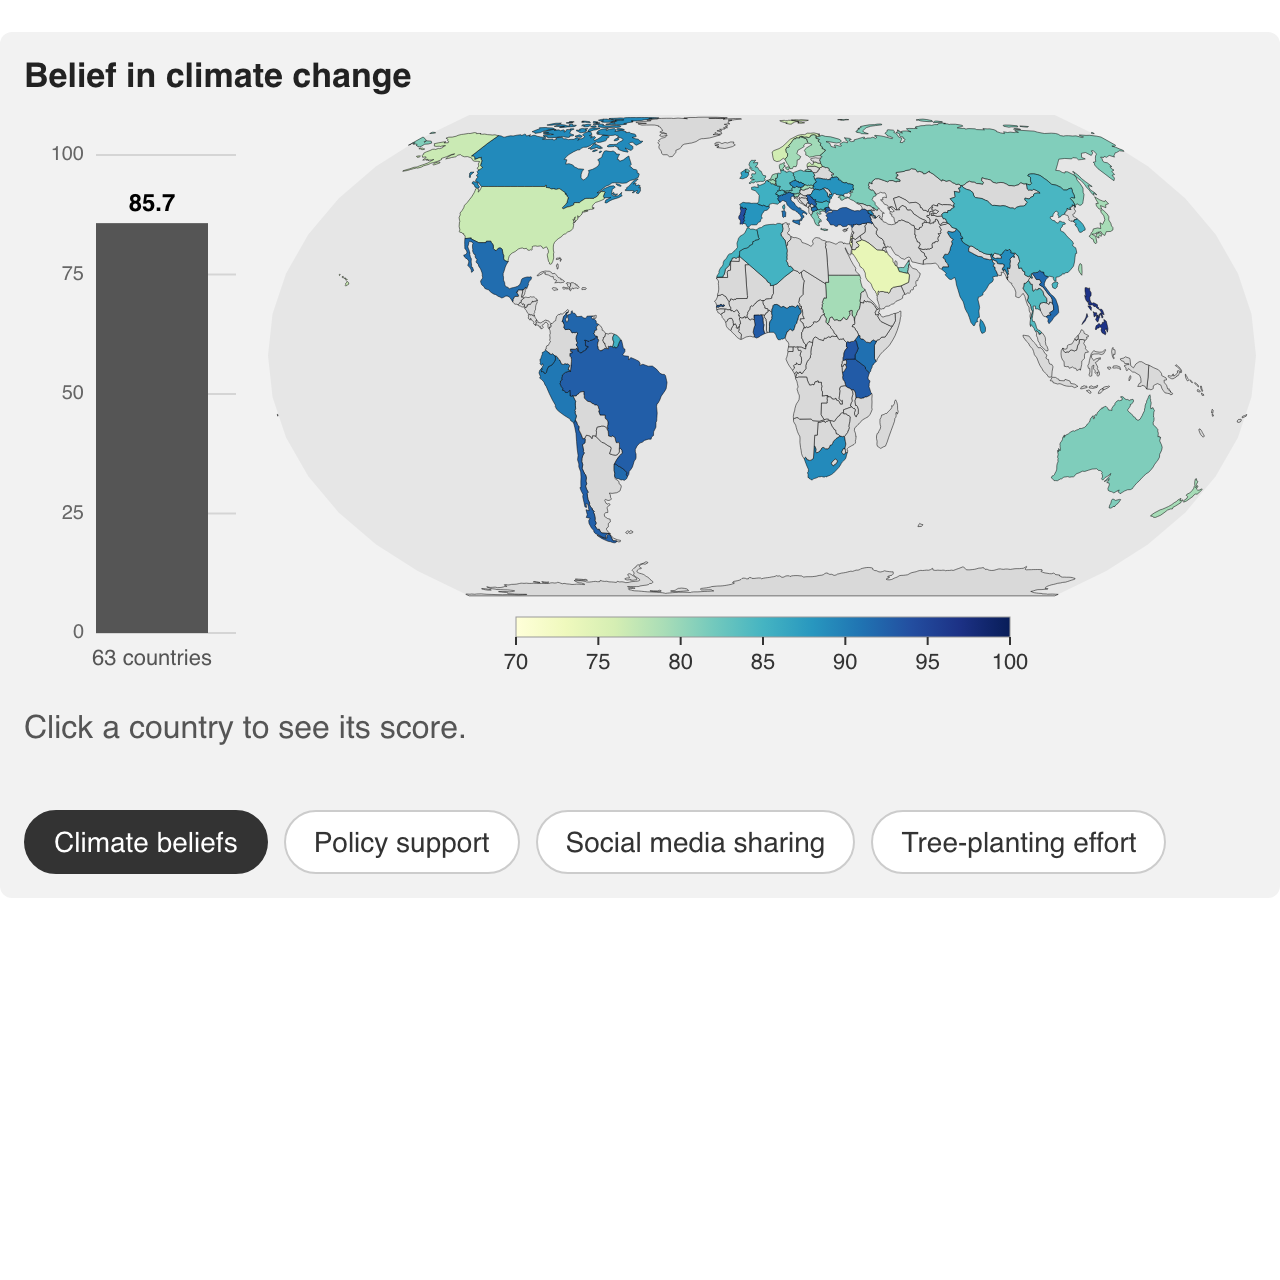
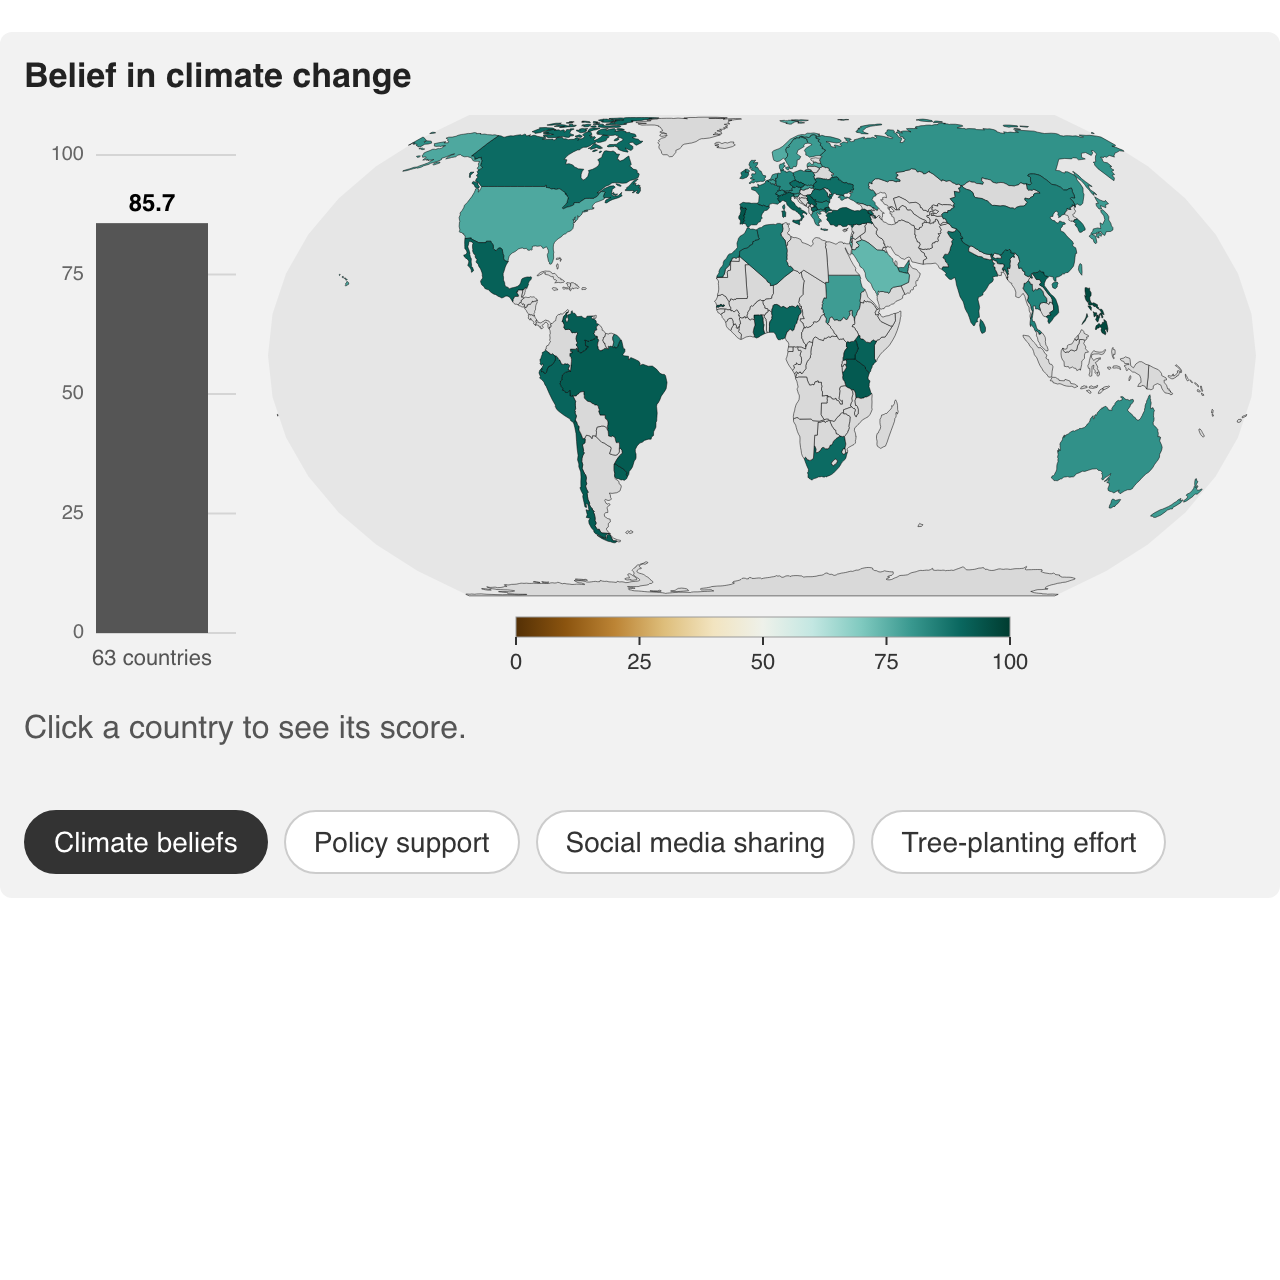
Refresh the thumbnails and correct the colour-scale prose
The BrBG commit changed only widget.js, which left two things behind it
stale. The vlasceanu thumbnail still showed the YlGnBu ramp and its
70-100 colorbar, and the page still told readers that every scale is
trimmed to its outcome's range and that the four maps cannot be compared
— true of the scale it replaced, but not of this one, where belief,
policy and sharing share a fixed 0-100 diverging scale and only
tree-planting effort has its own.

Also captures the leiserowitz-etal-2026 thumbnail and restores the
homepage card image that was commented out while it was missing, so all
six cards now carry a picture.

diff --git a/src/vlasceanu-etal-2024/index.md b/src/vlasceanu-etal-2024/index.md
@@ -30,7 +30,7 @@ const country = view(createVlasceanuEtal2024Widget({data: study, world}));
 
 The four tables ship here exactly as published — Tables S5 to S8 of the [supplementary materials](https://www.science.org/doi/10.1126/sciadv.adj5778#supplementary-materials) — and everything drawn above is computed from them in the browser. Each value is a posterior mean from the authors' Bayesian hierarchical models (zero-one-inflated beta, with country, item, participant and intervention effects), not an average of their respondents: the raw participant means run about four points lower on belief. The bar is therefore the unweighted mean of the 63 country scores, the same quantity the map is coloured by, rather than a respondent-level average that would not match it. Note that the 63 countries are a convenience sample, so that bar is a 63-country figure and not a world one.
 
-Each colour scale is trimmed to the range its outcome actually occupies, so the four maps are not comparable with one another; the bar chart's own axis always starts at zero. Singapore is in the study but has no polygon at this map's resolution.
+Belief, policy support and sharing are all reported on a 0–100 scale, so the three share one diverging colour scale fixed to that full range: those maps can be read against each other, and the midpoint of the scale is the midpoint of the measure. Tree-planting effort is pages completed out of eight rather than a percentage, so a diverging scale would imply a midpoint it does not have; it gets its own sequential scale over the range the 63 countries span, and is not comparable with the other three. The bar chart's axis always starts at zero. Singapore is in the study but has no polygon at this map's resolution.
 
 ## Embed this widget
 

diff --git a/src/index.md b/src/index.md
@@ -17,7 +17,7 @@ Small, self-contained interactive figures for teaching climate science. Each wid
   </a>
   <a class="card" href="./vlasceanu-etal-2024/">
     <h2>Vlasceanu et al. 2024</h2>
-    <img class="thumb" src="./assets/thumbnails/vlasceanu-etal-2024.png" alt="A bar of the 63-country mean beside a world map in the Equal Earth projection, shaded from pale yellow to navy by belief in climate change">
+    <img class="thumb" src="./assets/thumbnails/vlasceanu-etal-2024.png" alt="A bar of the 63-country mean beside a world map in the Equal Earth projection, shaded from brown to blue-green by belief in climate change">
   </a>
   <a class="card" href="./andre-etal-2024/">
     <h2>Andre et al. 2024</h2>
@@ -25,11 +25,7 @@ Small, self-contained interactive figures for teaching climate science. Each wid
   </a>
   <a class="card" href="./leiserowitz-etal-2026/">
     <h2>Global Warming's Six Americas</h2>
-    <!-- Thumbnail pending: run `npm run build && npm run thumbnails` to capture
-         leiserowitz-etal-2026.png, then restore the <img> the other cards use:
-         <img class="thumb" src="./assets/thumbnails/leiserowitz-etal-2026.png" alt="A
-         stacked area chart of six climate-opinion segments from 2008 to 2025, with a time
-         slider, beside horizontal bars showing the latest survey's shares"> -->
+    <img class="thumb" src="./assets/thumbnails/leiserowitz-etal-2026.png" alt="A stacked area chart of six climate-opinion segments from 2008 to 2025, with a time slider, beside horizontal bars showing the latest survey's shares">
   </a>
 </div>
 
